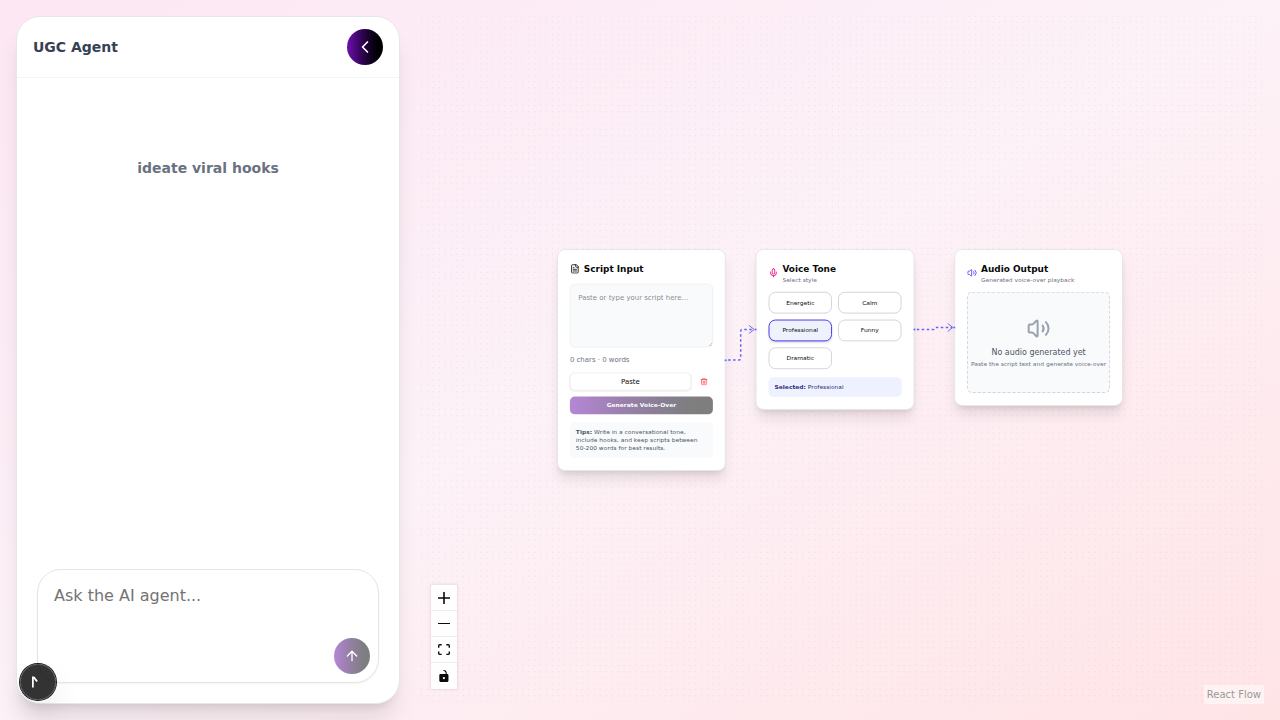
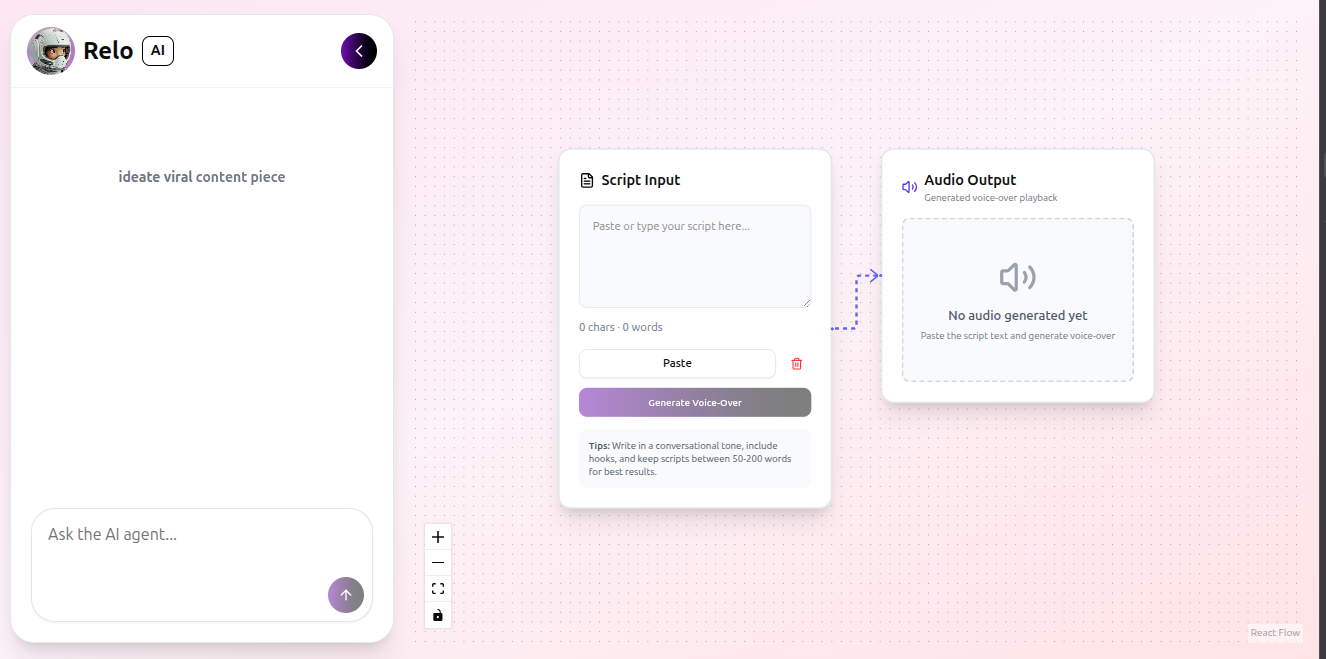
added ui capabilities

diff --git a/src/app/page.tsx b/src/app/page.tsx
@@ -17,12 +17,11 @@ export default function LandingPage() {
         <div className="flex max-w-6xl items-center justify-between">
           <div className="flex flex-col items-start space-y-6 text-left">
             <h1 className="text-6xl font-bold tracking-tight">
-              Let work find you
+              Create UGC faster
             </h1>
             <p className="max-w-md text-lg text-gray-600">
-              Relo AI quietly discovers opportunities through your existing
-              network, empowering you to grow your career. Included with Contra
-              Pro.
+              Relo AI quietly , ideates, plans UGC content for users from idea
+              to voiceover pluf filming advice .
             </p>
             <div className="flex items-center gap-4">
               <Link
